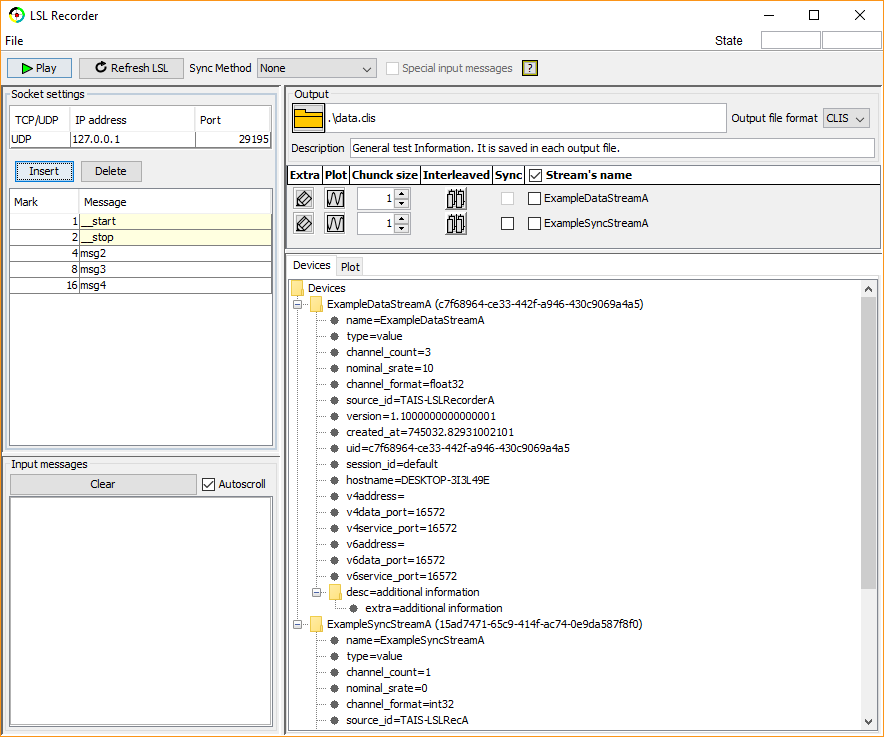
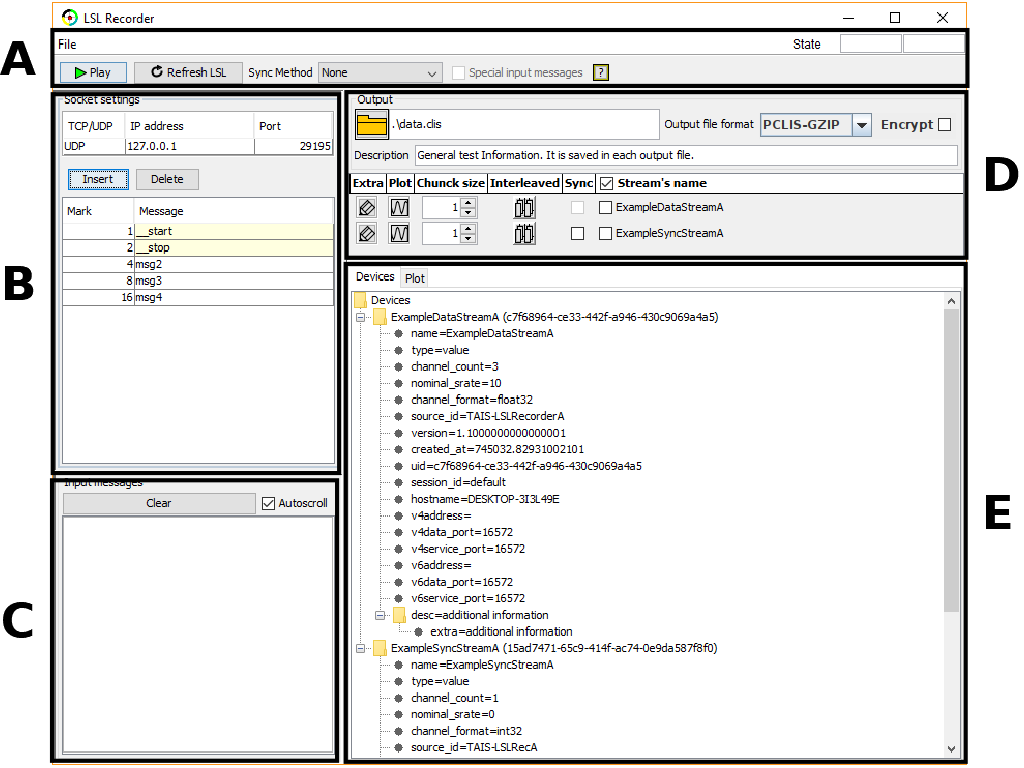
copy 2020.11.06.2

Changed region(s): [[0.0, 0.0, 1.0, 1.0]]

diff --git a/ImportClisData/Python/testClis.py b/ImportClisData/Python/testClis.py
@@ -11,6 +11,10 @@ f = 'D:/NextCloud/WorkSpace/GitHub/LSLRecorder/' + name + '.clis'
 f2 = 'D:/NextCloud/WorkSpace/GitHub/LSLRecorder/' + nameProc + '.clis'
 clis = ClisData.ClisData()
 
+f = 'C:/Users/Manuel Merino Monge/Desktop/Experimentos_Septiembre/';
+f = f + 'Lecy/TR1/';
+f = f + 'data_SESSION_N.clis';
+
 d = clis.importData( f )
 d2 = clis.importData( f2 )
 

diff --git a/README.md b/README.md
@@ -1,6 +1,6 @@
 # LSL Recorder
 
-LSL Recorder is a multi-thread, cross-platform software developed using Java technology (version 1.7) and [Lab Streaming Layer](https://github.com/sccn/labstreaminglayer) based on [CLIS](https://github.com/manmermon/CLIS) focused on recording digital signals for offline data analysis.
+LSL Recorder is a multi-thread, cross-platform software developed using Java technology (version 1.7) and [Lab Streaming Layer](https://github.com/sccn/labstreaminglayer) based on [CLIS](https://github.com/manmermon/CLIS) focused on recording digital signals for offline data analysis. More details in this [IEEE's paper](www.doi.org/10.1109/ACCESS.2020.3034770).
 
 <div align="center">
     <img src="./Readme/LSLRecorderGui.png", width="500">
@@ -10,49 +10,106 @@ LSL Recorder employs the next Java libraries:
 
 - [jcommon-1.0.23.jar](https://sourceforge.net/projects/jfreechart/files/3.%20JCommon/1.0.23/) (graphic; License LGPL).
 - [jfreechart-1.0.19.jar](https://sourceforge.net/projects/jfreechart/files/1.%20JFreeChart/1.0.19/) (graphic; License LGPL).
-- [jna-5.3.1.jar](repo1.maven.org/maven2/net/java/dev/jna/jna/5.3.1/jna-5.3.1.jar) (LSL requirement; Licenses LGPL 2.1 or later and 
+- [jna-5.3.1.jar](repo1.maven.org/maven2/net/java/dev/jna/jna/5.3.1/jna-5.3.1.jar) (LSL requirement; Licenses LGPL 2.1 or later).
+- [jna-platform-5.5.0.jar](https://mvnrepository.com/artifact/net.java.dev.jna/jna-platform/5.5.0) (License LGPL 2.1; Apache License 2.0).
+- [commons-compress-1.19.jar](https://mvnrepository.com/artifact/org.apache.commons/commons-compress/1.19) (Apache License 2.0): bzip2 compressor.
+- [icmp4j.jar](https://mvnrepository.com/artifact/sheltekio.javalibs/icmp4j/1.2) (License LGPL 3.0): It was modificed to calculate network delay in nano-seconds. 
+- [commons-lang3-3.7.jar](https://mvnrepository.com/artifact/org.apache.commons/commons-lang3/3.7) (Apache License 2.0).
+- [mfl-core-0.5.7-SNAPSHOT.jar](https://github.com/diffplug/MatFileIO) (Apache License 2.0): matlab output format.
+- [sis-jhdf5-19.04.0.jar](https://wiki-bsse.ethz.ch/display/JHDF5/Download+Page) (Apache License 2.0): hdf5 output format.
 Apache License 2.0).
 <!-- - [jgt-jgrassgears-0.7.6.jar](https://mvnrepository.com/artifact/org.jgrasstools/jgt-jgrassgears/0.7.6)-->
 <!-- - [jts-1.12.jar](https://mvnrepository.com/artifact/com.vividsolutions/jts/1.12)--> 
 
 
-## File Format
 
-The output file format of LSL Recorder is the version 2 from [CLIS](https://github.com/manmermon/CLIS). The import data files are available in the folder [ImportClisData](https://github.com/manmermon/LSLRecorder/tree/master/ImportClisData). The next <a href="#file_format">figure</a> shows its struct. This is split in two parts: data block (binary values) and header (text in UTF-8 format). 
+The project's struct:
+```
+LSLRecorder
+|
+|-- ImportClisData: To import data from CLIS format.
+|   |
+|   |-- Java
+|   |-- Matlab
+|   |-- Python
+|
+|-- LSLRecorder/src: source code.
+|
+|-- Lang: language files.
+|
+|-- Readme: used images in this readme file.
+|
+|-- lib: .jar libraries.
+|
+|-- systemLib: libraries of functions dependent on the operating system.
+|
+|-- plugins: .jar files. LSLRecorder's plugins. 
+|
+|-- binaries:
+|	|
+|   |-- LSLRecorder.zip: zip file with LSLRecorder.jar (runnable) and the folder systemLib.
+|   |-- LSLRecPluginInterface.jar: plugin's library. 
+```
+
+To use LSLRecorder, you have to download and unzip LSLRecorder.zip. This contains two file: *LSLRecorder.jar* and the folder *systemLib*. They both must be the same directory. The sentence to run LSLRecorder is: 
+```
+>> java -jar LSLRecorder.jar
+```
+
+# Plugins
+
+From LSLRecorder version 3, it is possible to extend the functionality adding plugins. The file [binaries/LSLRecPluginInterface.jar](https://github.com/manmermon/LSLRecorder/tree/master/binaries) must be imported in your project. This contains 5 type of plugins:
+
+- <u>Compressor</u>: new compressor to CLIS format. The plugin must be extends from LSLRecPluginCompressor class.
+- <u>Encoder</u>: new output format encoder. The plugin must be extends from LSLRecPluginEncoder class.
+- <u>Data processing</u>: adding data processing to input data stream. The plugin must implement ILSLPluginDataProcessing interface and extends LSLRecPluginDataProcessing class.
+- <u>Sync method</u>: new sync marker method. The plugin must implement ILSLRecPluginSyncMethod interface and extends LSLRecPluginSynMethod class.
+- <u>Trial interface</u>: adding trial interface. The plugin must implement ILSLRecPluginTrial interfacee and extends LSLRecPluginTrial class.
+
+If the plugin needs parameters, this can extends the LSLRecConfigurablePlugin template.
+
+<u><i><b>Note</b></i></u>: The current LSLRecorder version requires JRE/JDK 1.8 for the plugins to work. For Java 9 o greater, LSLRecorder works but without plugins. 
+
+# File Format
+
+The output file format of LSL Recorder is the version 2.1 from [CLIS](https://github.com/manmermon/CLIS). The import data files are available in the folder [ImportClisData](https://github.com/manmermon/LSLRecorder/tree/master/ImportClisData). The next <a href="#file_format">figure</a> shows its struct. This is split in two parts: data block (binary values) and header (text in UTF-8 format). 
 
 <div align="center" id="file_format">
-    <img src="./Readme/clis_file_format.png", width="400">
+    <img src="./Readme/clis_file_format_complete.png", width="800">
 </div>
-
-### Data Block 
-
-Sequence of compress block. Each block is the output of GZip compression technique applies to data segments of 5 MiB.
 
 ### Header
 
-Header contains all information to restore original data. This is split in 3 parts: restoration fields, data information, and padding. The next <a href="header_file">figure</a> shows this scheme. 
+Header contains all information to restore original data. This is split in 3 parts: restoration fields, data information, and padding. The <a href="file_format">previous figure</a> shows this scheme. 
 
-<div align="center" id="header_file">
-    <img src="./Readme/clis_header_file.png", width="400">
-</div>
 
 
 #### Restoration Fields
 
-Block of restoration fields is a single text line ending with the special character ``end of line'' ($\backslash n$). This contain all information to restore original data. Each field is split by a semicolon. The three firsts identify version, compression technique, and byte size of header, and the last one indicates if data information block is present. The other middle fields are referenced to data blocks. In these, the different subfields are separated by a comma, such that, the meaning (in order) is: 
+Block of restoration fields is a single text line ending with the special character *end of line* (*\n*). This contain all information to restore original data. Each field is split by a semicolon. The three firsts identify version, compression technique, and byte size of header, and the last one indicates if data information block is present. The other middle fields are referenced to data blocks. In these, the different subfields are separated by a comma, such that, the meaning (in order) is: 
 
 - varName: name of data stream. 
 - dataType: data type. Three exclusive options: int (integer), float, and char (character). 
 - typeBytes: number of bytes of data type. This way, a double value and a 32-bit integer are identified as "float,8", and "int,4". 
 - nCols: data streaming are structured as a NxM matrix. The number of columns is identified in this subfiled. 
-- block1ByteLen,...,blockNByteLen: number of bytes of each input 5MiB-data segments after compression algorithm.
+- block1ByteLen,...,blockNByteLen: number of bytes of each input 10MiB-data segments after compression algorithm.
+
+The order in which each data-block field appears indicates their order in the file.
+
+The last field of the first text line of restoration information shows whether the extension is available. A value equal to *true* indicates complementary information to restore data blocks is contained in the next text line. Version 2.1 of *CLIS* format is compounded by 2 fields separated by a semicolon. The first one indicates the length (in bytes) of the saved symmetric-encryption key after the next *\n*. This is encrypted, so it is advisable to check that the decryption key is the same (in the <a href="file_format">previous figure</a>, the encryption key is indicated by the string *ENCRYPTED-PASSWORD*). The second field contains an MD5-checksum code of encrypted-compressed data. The steps to generate it are: firstly data block (one by one), and then, CLIS header without the checksum code and padding (in the <a href="file_format">previous figure</a>, the checksum code is indicated by the string *MD5-text*).
 
 #### Data Information
 
-Data information block includes comments about data, and it is optional. This must be a single text line ending with the special character "end of line" (\n). In LSL Recorder, this contains LSL streaming information in XML format.
+Data information block includes comments about data, and it is optional. This must be a single text line ending with the special character *end of line* (*\n*). In LSL Recorder, this contains LSL streaming information in XML format. This text is encrypted if the user sets an encrypt key.
 
 #### Padding
 
-Numbers of compressed blocks and the length of each one are unknown at the beginning of convert processing. This fact causes that the number of characters of <i>restoration fields</i> is initially unknown. The target of the padding is to reserve enough memory space to insert the two previous header blocks at the beginning of output file, after data compression process is finished, without overwriting compressed data blocks. The header byte size is estimated based on the worst of case (uncompressed data for each 5MiB segment), and the special character "carriage return" (\r) is inserted until the estimation is reached.
+Numbers of compressed blocks and the length of each one are unknown at the beginning of convert processing. This fact causes that the number of characters of *restoration fields* is initially unknown. The target of the padding is to reserve enough memory space to insert the two previous header blocks at the beginning of output file, after data compression process is finished, without overwriting compressed data blocks. The header byte size is estimated based on the worst of case (uncompressed data for each 5MiB segment), and the special character *carriage return* (*\r*) is inserted until the estimation is reached.
 
 The process to convert the temporal input binary file data to output data file are split in 3 parts: 1) insert the padding to reserve the bytes for the header, 2) compress and save the input data files (in our case, the data file and the time stamp file), and 3) write the header file at the beginning.
+
+### Data Block 
+
+The data block consists of a sequence of compressed 10MiB-data segments. LSLRecorder currently supports two compression techniques: GZIP (default) and BZIP2. Each compressed block is encrypted if the user sets an encrypt key. 
+
+The process to convert the temporary input binary file data to the output data file is split into 3 parts: 1) insert the padding to reserve the header, 2) compress, encrypt and save the input binary data file, and 3) write the header file at the beginning. 
